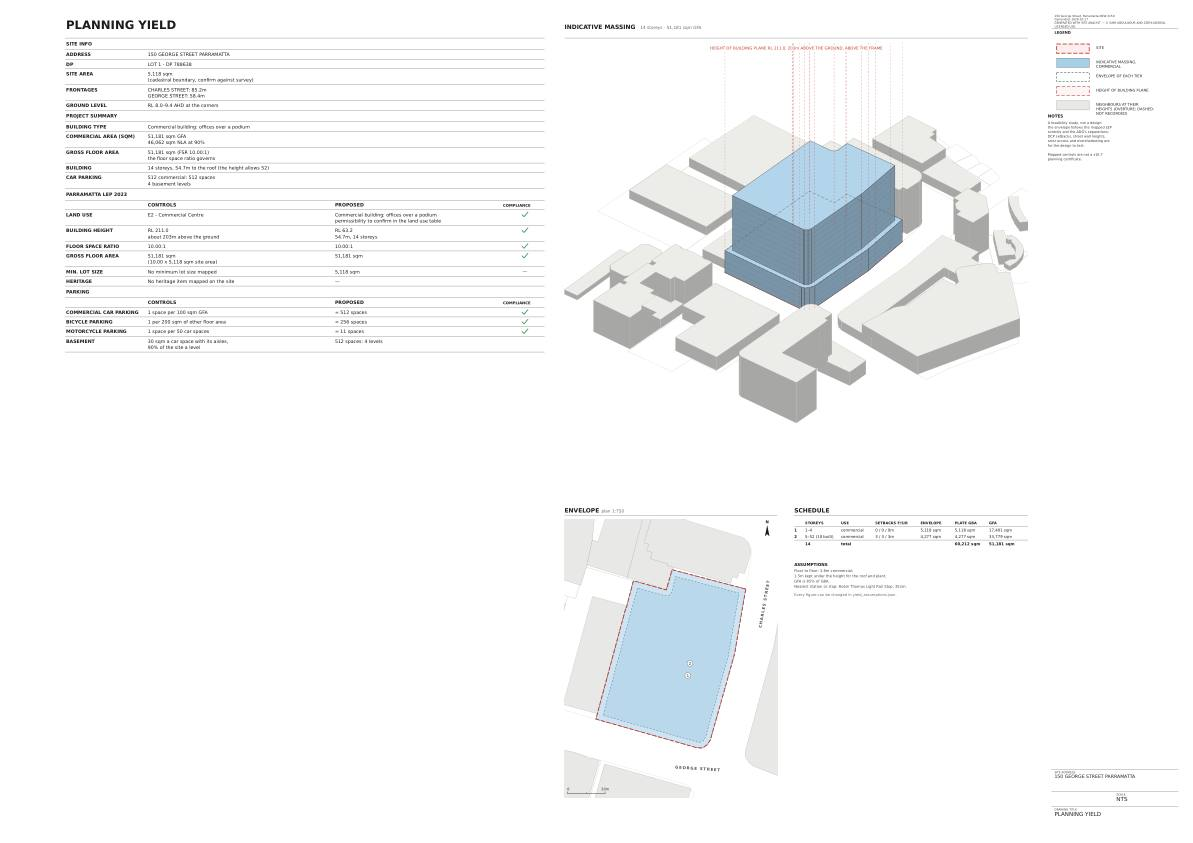
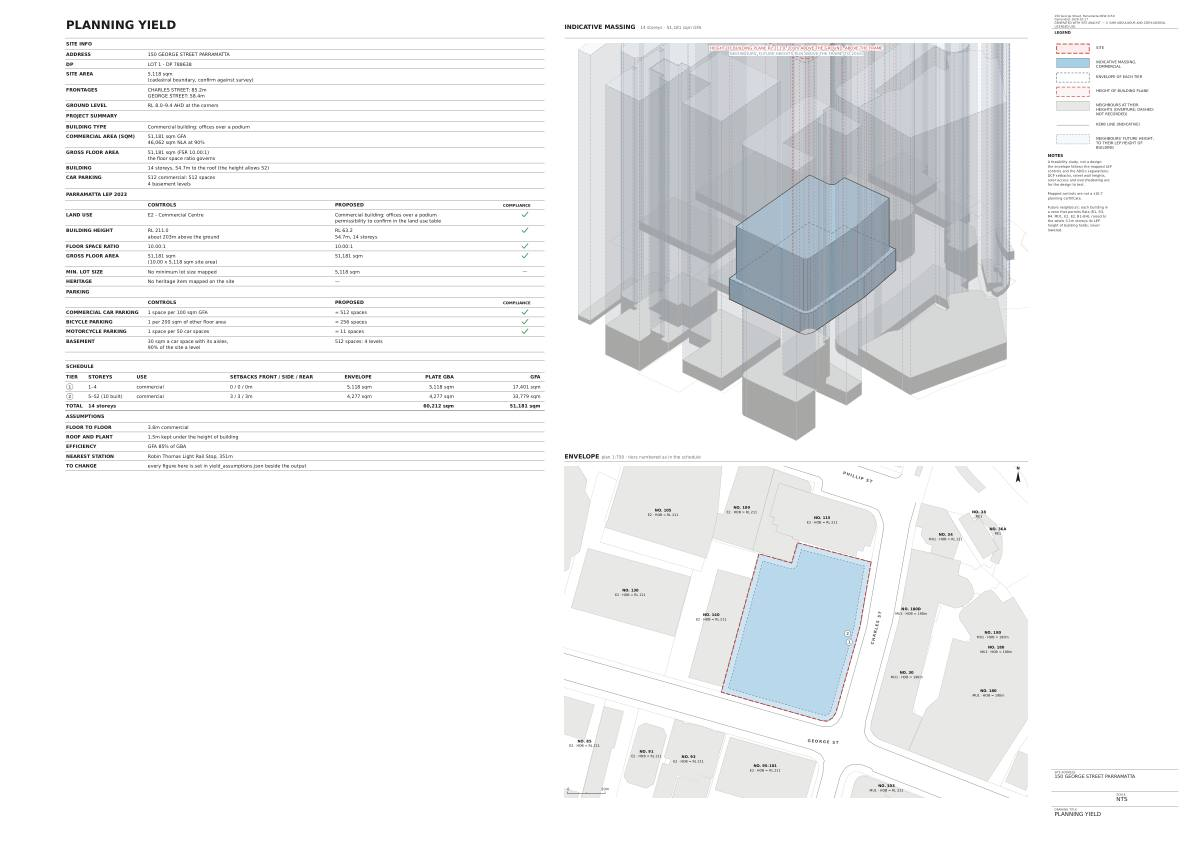
Planning yield: a CBD's future towers run out of the frame; labels kept apart; the sample redrawn
Where the height control is an airspace RL (Parramatta CBD's RL 211), every
neighbour's future is some sixty storeys, and fitting them shrank the
proposal to a speck. They are now cut where the height plane is (1.6 times
the tallest of what stands and the proposal) and run out of the frame, with
a note giving their height, as the plane already did. A neighbour's label
box is a little wider, so two close labels no longer touch.

web/samples/result-yield.jpg is redrawn for 150 George Street, Parramatta
on the new sheet.

Claude-Session: https://claude.ai/code/session_01WPoKLCx3sAatyQhh7CMovm

diff --git a/src/render/yieldSheet.ts b/src/render/yieldSheet.ts
@@ -522,21 +522,33 @@ function axonometric(b: YieldBundle, s: YieldStudy, box: { x: number; y: number;
 
   // Fit it all to the box. A height plane far above everything built (an
   // airspace RL in a CBD) is not fitted: it runs out of the frame, and the
-  // frame says where it is.
+  // frame says where it is. Nor is a neighbour's future far above what
+  // stands: it is cut at the same height, so a CBD's towers-to-be do not
+  // shrink the proposal to a speck, and the frame says how high they go.
   const pts: [number, number][] = [];
   let tallest = 0;
-  for (const { group } of prisms) for (const pr of group) { tallest = Math.max(tallest, pr.z1); for (const rg of pr.rings) for (const p of rg) pts.push(P(p, pr.z0), P(p, pr.z1)); }
+  for (const { group } of prisms) for (const pr of group) if (pr.fill !== FUTURE_FILL) tallest = Math.max(tallest, pr.z1);
+  const cap = Math.max(tallest, 12) * 1.6;
+  let futureTop = 0;
+  for (const { group } of prisms) for (const pr of group) {
+    const z1 = pr.fill === FUTURE_FILL ? Math.min(pr.z1, cap) : pr.z1;
+    if (pr.fill === FUTURE_FILL) futureTop = Math.max(futureTop, pr.z1);
+    for (const rg of pr.rings) for (const p of rg) pts.push(P(p, pr.z0), P(p, z1));
+  }
   const planeZ = s.hob?.metres ?? 0;
-  const planeFits = planeZ <= Math.max(tallest, 12) * 1.6;
+  const planeFits = planeZ <= cap;
   for (const p of s.ring) pts.push(P(p, 0), P(p, planeFits ? planeZ : Math.max(tallest, 12) * 1.25));
   const xs = pts.map((p) => p[0]), ys = pts.map((p) => p[1]);
   const x0 = Math.min(...xs), x1 = Math.max(...xs), y0 = Math.min(...ys), y1 = Math.max(...ys);
   const k = Math.min(box.w / (x1 - x0 || 1), box.h / (y1 - y0 || 1));
   const tx = box.x + (box.w - (x1 - x0) * k) / 2 - x0 * k, ty = box.y + (box.h - (y1 - y0) * k) / 2 - y0 * k;
   // Strokes are set in sheet millimetres: divide them back out of the scale.
-  const above = s.hob?.metres && !planeFits
-    ? `<text x="${(box.x + box.w / 2).toFixed(1)}" y="${(box.y + 4).toFixed(1)}" text-anchor="middle" font-size="2.8" fill="${SITE_RED}" stroke="#ffffff" stroke-width="1.4" paint-order="stroke">HEIGHT OF BUILDING PLANE ${s.hob.rl ? `RL ${fmt(s.hob.value, 1)}, ` : ''}${fmt(Math.round(planeZ))}m ABOVE THE GROUND, ABOVE THE FRAME</text>`
-    : '';
+  const note = (line: number, ink: string, text: string) =>
+    `<text x="${(box.x + box.w / 2).toFixed(1)}" y="${(box.y + 4 + line * 4).toFixed(1)}" text-anchor="middle" font-size="2.8" fill="${ink}" stroke="#ffffff" stroke-width="1.4" paint-order="stroke">${esc(text)}</text>`;
+  const notes: string[] = [];
+  if (s.hob?.metres && !planeFits) notes.push(note(notes.length, SITE_RED, `HEIGHT OF BUILDING PLANE ${s.hob.rl ? `RL ${fmt(s.hob.value, 1)}, ` : ''}${fmt(Math.round(planeZ))}m ABOVE THE GROUND, ABOVE THE FRAME`));
+  if (futureTop > cap) notes.push(note(notes.length, FUTURE_EDGE, `NEIGHBOURS' FUTURE HEIGHTS RUN ABOVE THE FRAME, TO ${fmt(Math.round(futureTop))}m`));
+  const above = notes.join('');
   return `<defs><clipPath id="axoclip"><rect x="${box.x}" y="${box.y}" width="${box.w}" height="${box.h}"/></clipPath></defs>
     <g clip-path="url(#axoclip)"><g transform="translate(${tx.toFixed(2)},${ty.toFixed(2)}) scale(${k.toFixed(4)})">
     <g style="vector-effect:non-scaling-stroke">${ground.join('')}${parts.join('')}${over.join('')}</g></g></g>${above}`;
@@ -716,7 +728,7 @@ function planView(b: YieldBundle, s: YieldStudy, box: { x: number; y: number; w:
   const within = (p: XY, rs: XY[][]) => rs.filter((rg) => inRing(p, rg)).length % 2 === 1;
   for (const { pc } of labelled) {
     const lines = [`NO. ${numberLine(pc.numbers!)}`, [pc.zone, pc.hob ? hobLine(pc.hob) : ''].filter(Boolean).join(' · ')].filter(Boolean);
-    const wMm = Math.max(lines[0].length * F1 * 0.64, (lines[1]?.length ?? 0) * F2 * 0.56) + 1.2, hMm = lines.length * LH + 0.6;
+    const wMm = Math.max(lines[0].length * F1 * 0.66, (lines[1]?.length ?? 0) * F2 * 0.6) + 2.4, hMm = lines.length * LH + 0.8;
     const hw = wMm / 2 / mm, hh = hMm / 2 / mm;
     // The label's box, its corners and the middles of its sides, all inside the outline.
     const fits = (p: XY, rs: XY[][]) => [[-1, -1], [0, -1], [1, -1], [1, 0], [1, 1], [0, 1], [-1, 1], [-1, 0]].every(([u, v]) => within({ x: p.x + u * hw, y: p.y + v * hh }, rs));

diff --git a/README.md b/README.md
@@ -826,7 +826,8 @@ storeys its LEP height of building holds, where its zone permits flats (R1,
 R3, R4, MU1, E1, E2, B1–B4), never lowered — the way sun-study's future
 context reads it (`futureHeight()` in `src/lib/yield.ts`). The proposal's
 outline is drawn over everything, so a future neighbour in front of it does
-not hide it. Under the massing, the envelope in plan at a round scale, the
+not hide it, and a future far above what stands (a CBD's airspace RL) runs out
+of the frame, as the height plane does, the frame saying how high it goes. Under the massing, the envelope in plan at a round scale, the
 width of the half, on the ground the site analysis draws, kept to black and
 grey: the lot lines, the kerbs (`src/lib/kerbs.ts`, indicative), the
 neighbours' buildings, and on each numbered neighbour its street number, zone
